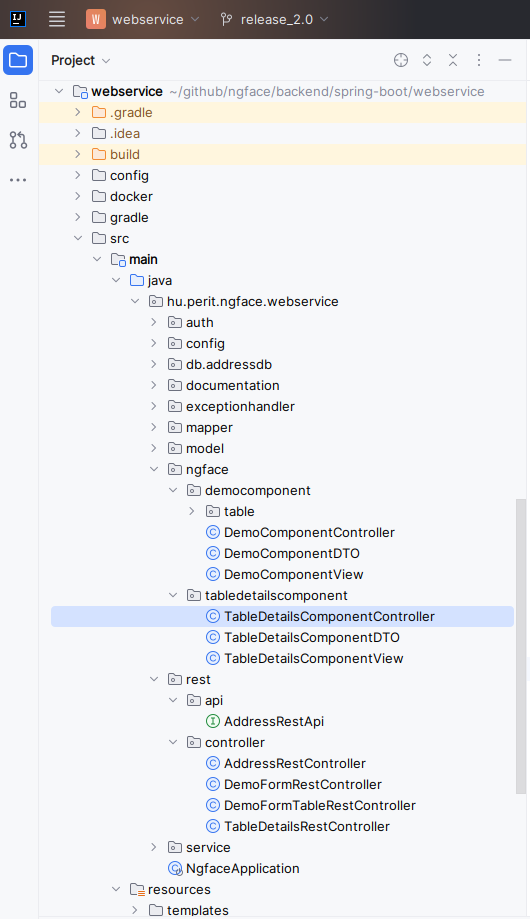
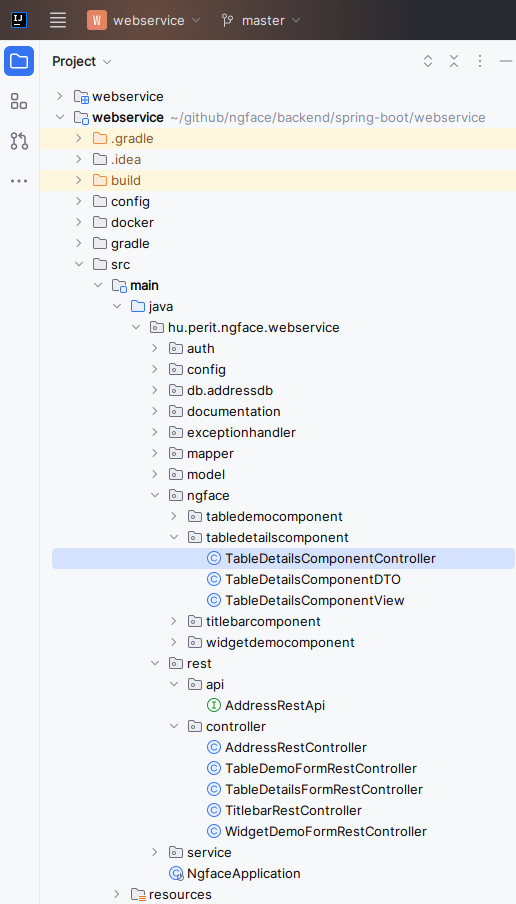
README.md

Changed region(s): [[0.0, 0.0, 1.0, 1.0], [0.4031, 0.0, 0.5891, 0.031], [0.8372, 0.031, 0.8682, 0.0619]]

diff --git a/README.md b/README.md
@@ -8,9 +8,9 @@
     * [View class](#view-class)
     * [Rest controller](#rest-controller)
   * [Code samples - frontend](#code-samples---frontend)
-    * [demo-dialog1.component.html](#demo-dialog1componenthtml)
-    * [demo-dialog1.component.ts](#demo-dialog1componentts)
-    * [demo-form1.component.ts](#demo-form1componentts)
+    * [table-details-dialog.component.html](#table-details-dialogcomponenthtml)
+    * [table-details-dialog.component.ts](#table-details-dialogcomponentts)
+    * [table-demo-form.component.ts](#table-demo-formcomponentts)
   * [Backend code generator](#backend-code-generator)
 * [Open issues](#open-issues)
 * [Contact](#contact)
@@ -67,32 +67,31 @@ The DTO class holds all the data which will be shown on the form. When the form 
 @Data
 public class TableDetailsComponentDTO extends ComponentDTO
 {
-    // Id of the data row
-    @DTOId
-    @NotNull
-    private String id;
+  // Id of the data row
+  @DTOId
+  @NotNull
+  private String id;
 
-    // Name of the modal. Not annotated with @DTOValue because it will not be sumbitted by the frontend
-    private String name;
+  // Name of the modal. Not annotated with @DTOValue because it will not be sumbitted by the frontend
+  private String name;
 
-    @DTOValue(id = AddressTableRow.COL_POSTCODE)
-    @NotNull
-    private Integer postCode;
+  @DTOValue(id = AddressTableRow.COL_POSTCODE)
+  @NotNull
+  private Integer postCode;
 
-    @DTOValue(id = AddressTableRow.COL_CITY)
-    @NotNull
-    @Size(min = 2, max = 20)
-    private String city;
+  @DTOValue(id = AddressTableRow.COL_CITY)
+  @NotNull
+  @Size(min = 2, max = 20)
+  private String city;
 
-    @DTOValue(id = AddressTableRow.COL_STREET)
-    @NotNull
-    @Size(min = 2, max = 30)
-    private String street;
+  @DTOValue(id = AddressTableRow.COL_STREET)
+  @NotNull
+  @Size(min = 2, max = 30)
+  private String street;
 
-    @DTOValue(id = AddressTableRow.COL_DISTRICT)
-    @NotNull
-    @Size(min = 2, max = 20)
-    private String district;
+  @DTOValue(id = AddressTableRow.COL_DISTRICT)
+  @NotNull
+  private Autocomplete.Data district;
 }
 ```
 
@@ -113,7 +112,8 @@ The controller class is a Spring service, which is called from the Rest controll
 public class TableDetailsComponentController implements ComponentController<TableDetailsComponentDTO, Long>
 {
     private final AddressService addressService;
-    
+
+
     @Override
     public TableDetailsComponentDTO getForm(Long id)
     {
@@ -131,7 +131,7 @@ public class TableDetailsComponentController implements ComponentController<Tabl
             data.setPostCode(addressEntity.getPostCode());
             data.setCity(addressEntity.getCity());
             data.setStreet(addressEntity.getStreet());
-            data.setDistrict(addressEntity.getDistrict());
+            data.setDistrict(getAutocompleteData(addressEntity.getDistrict()));
             return data;
         }
         catch (ResourceNotFoundException e)
@@ -141,10 +141,19 @@ public class TableDetailsComponentController implements ComponentController<Tabl
     }
 
 
+    private Autocomplete.Data getAutocompleteData(String value)
+    {
+        Autocomplete.Data data = new Autocomplete.Data(value);
+        List<String> distinctDistricts = this.addressService.getDistinctDistricts(null);
+        data.getExtendedReadOnlyData().options(distinctDistricts);
+        return data;
+    }
+
+
     @Override
     public void onFormSubmit(TableDetailsComponentDTO data)
     {
-        this.addressService.update(Long.parseLong(data.getId()), data.getPostCode(), data.getCity(), data.getStreet(), data.getDistrict());
+        this.addressService.update(Long.parseLong(data.getId()), data.getPostCode(), data.getCity(), data.getStreet(), data.getDistrict().getValue());
     }
 }
 ```
@@ -192,11 +201,11 @@ public class TableDetailsComponentView implements ComponentView
                 .addValidator(new Required("Street is required!"))
                 .addValidator(new Size(INVALID_LENGTH).min(2).max(30))
             )
-            .addWidget(new TextInput(AddressTableRow.COL_DISTRICT)
-                .value(this.data.getDistrict())
+            .addWidget(new Autocomplete(AddressTableRow.COL_DISTRICT)
+                .data(this.data.getDistrict())
                 .label("District")
                 .addValidator(new Required("District is required!"))
-                //.addValidator(new Size(INVALID_LENGTH).min(2).max(20))
+                .addValidator(new Size(INVALID_LENGTH).min(2).max(20))
             )
             .addWidget(Button.SAVE)
             .addWidget(Button.CANCEL)
@@ -251,116 +260,125 @@ public class TableDetailsRestController
 ```
 
 ## Code samples - frontend
-### demo-dialog1.component.html
+### table-details-dialog.component.html
 ```html
-<div mat-dialog-title>{{data.title}}</div>
-<ngface-form [formdata]="formData" mat-dialog-content (keydown.enter)="onOkClick()">
-    <div class="ngface-row">
-        <ngface-numeric-input [formdata]="formData" widgetid="postCode"></ngface-numeric-input>
+<div responsiveClass="ngface-dialog">
+  <!-- Title -->
+  <div mat-dialog-title responsiveClass="ngface-dialog-title">{{data.title}}</div>
+
+  <!-- Main part -->
+  <ngface-form [formdata]="formData" mat-dialog-content (keydown.enter)="onOkClick()" responsiveClass="ngface-dialog-main">
+    <div responsiveClass="ngface-row">
+      <ngface-numeric-input [formdata]="formData" widgetid="postCode"></ngface-numeric-input>
+      <ngface-text-input [formdata]="formData" widgetid="city"></ngface-text-input>
+      <ngface-text-input [formdata]="formData" widgetid="street"></ngface-text-input>
+      <ngface-autocomplete [formdata]="formData" widgetid="district"></ngface-autocomplete>
     </div>
-    <div class="ngface-row">
-        <ngface-text-input [formdata]="formData" widgetid="city"></ngface-text-input>
-    </div>
-    <div class="ngface-row">
-        <ngface-text-input [formdata]="formData" widgetid="street"></ngface-text-input>
-    </div>
-    <div class="ngface-row">
-        <ngface-text-input [formdata]="formData" widgetid="district"></ngface-text-input>
-    </div>
-</ngface-form>
-<div mat-dialog-actions>
+  </ngface-form>
+
+  <!-- Dialog actions -->
+  <div responsiveClass="ngface-dialog-actions" mat-dialog-actions>
     <ngface-button [formdata]="formData" widgetid="button-save" (click)="onOkClick()"></ngface-button>
     <ngface-button [formdata]="formData" widgetid="button-cancel" (click)="onCancelClick()"></ngface-button>
+  </div>
 </div>
 ```
 
-### demo-dialog1.component.ts
+### table-details-dialog.component.ts
 
 ```typescript
 @Component({
-    selector: 'app-demo-dialog1',
-    templateUrl: './demo-dialog1.component.html',
-    styleUrls: ['./demo-dialog1.component.scss'],
-    standalone: true,
-    imports: [MatDialogModule, NgfaceFormComponent, NgfaceNumericInputComponent, NgfaceTextInputComponent, NgfaceButtonComponent]
+  selector: 'app-demo-dialog1',
+  templateUrl: './table-details-dialog.component.html',
+  styleUrls: ['./table-details-dialog.component.scss'],
+  standalone: true,
+  imports: [
+    MatDialogModule,
+    NgfaceFormComponent,
+    NgfaceNumericInputComponent,
+    NgfaceTextInputComponent,
+    NgfaceButtonComponent,
+    NgfaceAutocompleteComponent,
+    ResponsiveClassDirective]
 })
-export class DemoDialog1Component extends FormBaseComponent implements OnInit
+export class TableDetailsDialogComponent extends FormBaseComponent implements OnInit
 {
-    constructor(public dialogRef: MatDialogRef<DemoDialog1Component>,
-                @Inject(MAT_DIALOG_DATA) public data: Ngface.Form)
-    {
-        super();
-    }
+  constructor(public dialogRef: MatDialogRef<TableDetailsDialogComponent>,
+              @Inject(MAT_DIALOG_DATA) public data: Ngface.Form)
+  {
+    super();
+  }
 
-    ngOnInit(): void
-    {
-        this.formData = this.data;
-    }
+  ngOnInit(): void
+  {
+    this.formData = this.data;
+  }
 
-    onCancelClick(): void
-    {
-        this.dialogRef.close();
-    }
+  onCancelClick(): void
+  {
+    this.dialogRef.close();
+  }
 
-    onOkClick(): void
+  onOkClick(): void
+  {
+    this.formGroup.markAllAsTouched();
+    if (!this.formGroup.valid)
     {
-        this.formGroup.markAllAsTouched();
-        if (!this.formGroup.valid)
-        {
-            console.warn('Data is invalid!');
-        }
-        else
-        {
-            const submitData = this.getSubmitData();
-            console.log(submitData);
-            this.dialogRef.close(submitData);
-        }
+      console.warn('Data is invalid!');
     }
+    else
+    {
+      const submitData = this.getSubmitData();
+      console.log(submitData);
+      this.dialogRef.close(submitData);
+    }
+  }
 }
 ```
 
-### demo-form1.component.ts
+### table-demo-form.component.ts
 ```typescript
-private doEditAction(row: Ngface.Row<number> | undefined): void
-{
-    if (!row)
-    {
-        return;
-    }
-
-    const rowid: number = row.id;
-    // Reading dialog data from the backend
-    this.tableDetailsService.getTableDetailsForm(rowid).subscribe(dialogData =>
-    {
-        console.log(dialogData);
-        // Open dialog
-        const dialogRef = this.dialog.open(DemoDialog1Component, {
-            data: dialogData,
-            backdropClass: 'ngface-modal-dialog-backdrop'
-        });
-    
-        // Subscribe to afterClosed
-        dialogRef.afterClosed().subscribe(result =>
+    private doEditAction(row: Ngface.Row<number> | undefined): void
         {
-            if (result)
-            {
-                // Submitting new data to the backend
-                this.tableDetailsService.submitTableDetailsForm({id: row.id.toString(), widgetDataMap: result}).subscribe(
-                    () =>
-                    {
-                        console.log('sumbitted');
-                        // reload table content
-                        this.demoFormTableService.getDemoFormTableRow(row.id).subscribe(data =>
-                        {
-                            console.log(data);
-                            // @ts-ignore
-                            row.cells = data.widgets['table-multiselect'].rows[0].cells;
-                        });
-                    },
-                    error => console.log(error));
-            }
-        });
-    });
+          if (!row)
+{
+  return;
+}
+
+const rowid: number = row.id;
+// Reading dialog data from the backend
+this.tableDetailsService.getTableDetailsForm(rowid).subscribe(dialogData =>
+{
+  console.log(dialogData);
+  // Open dialog
+  const dialogRef = this.dialog.open(TableDetailsDialogComponent, {
+    data: dialogData,
+    backdropClass: 'ngface-modal-dialog-backdrop',
+    minWidth: this.deviceTypeService.deviceType === 'Phone' ? '100%' : undefined
+  });
+
+  // Subscribe to afterClosed
+  dialogRef.afterClosed().subscribe(result =>
+  {
+    if (result)
+    {
+      // Submitting new data to the backend
+      this.tableDetailsService.submitTableDetailsForm({id: row.id.toString(), widgetDataMap: result}).subscribe(
+              () =>
+              {
+                console.log('sumbitted');
+                // reload table content
+                this.tableDemoFormService.getDemoFormTableRow(row.id).subscribe(data =>
+                {
+                  console.log(data);
+                  // @ts-ignore
+                  row.cells = data.widgets['table-multiselect'].rows[0].cells;
+                });
+              },
+              error => console.log(error));
+    }
+  });
+});
 }
 ```
 
@@ -381,7 +399,6 @@ NewComponentView.java generated
 # Open issues
 
 - PasswordInput
-- Autocomplete component
 
 # Contact
 Developed by [perit](https://perit.hu).
